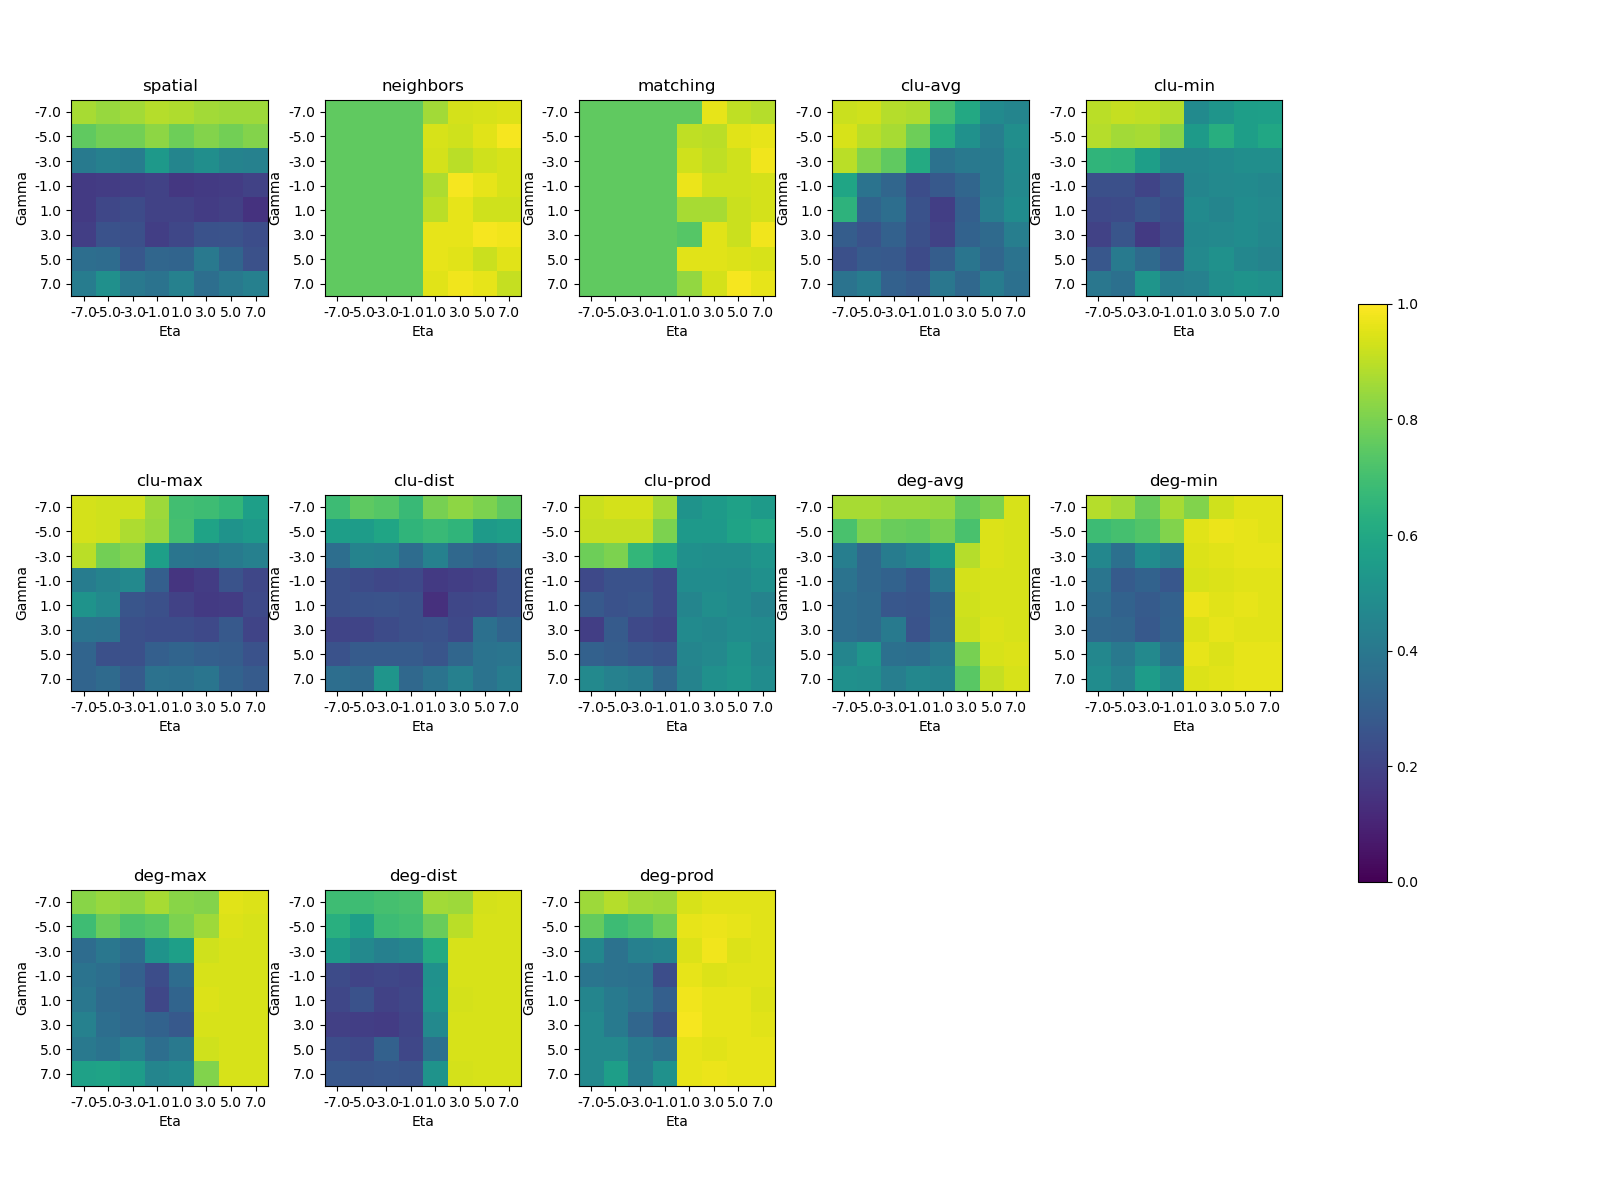
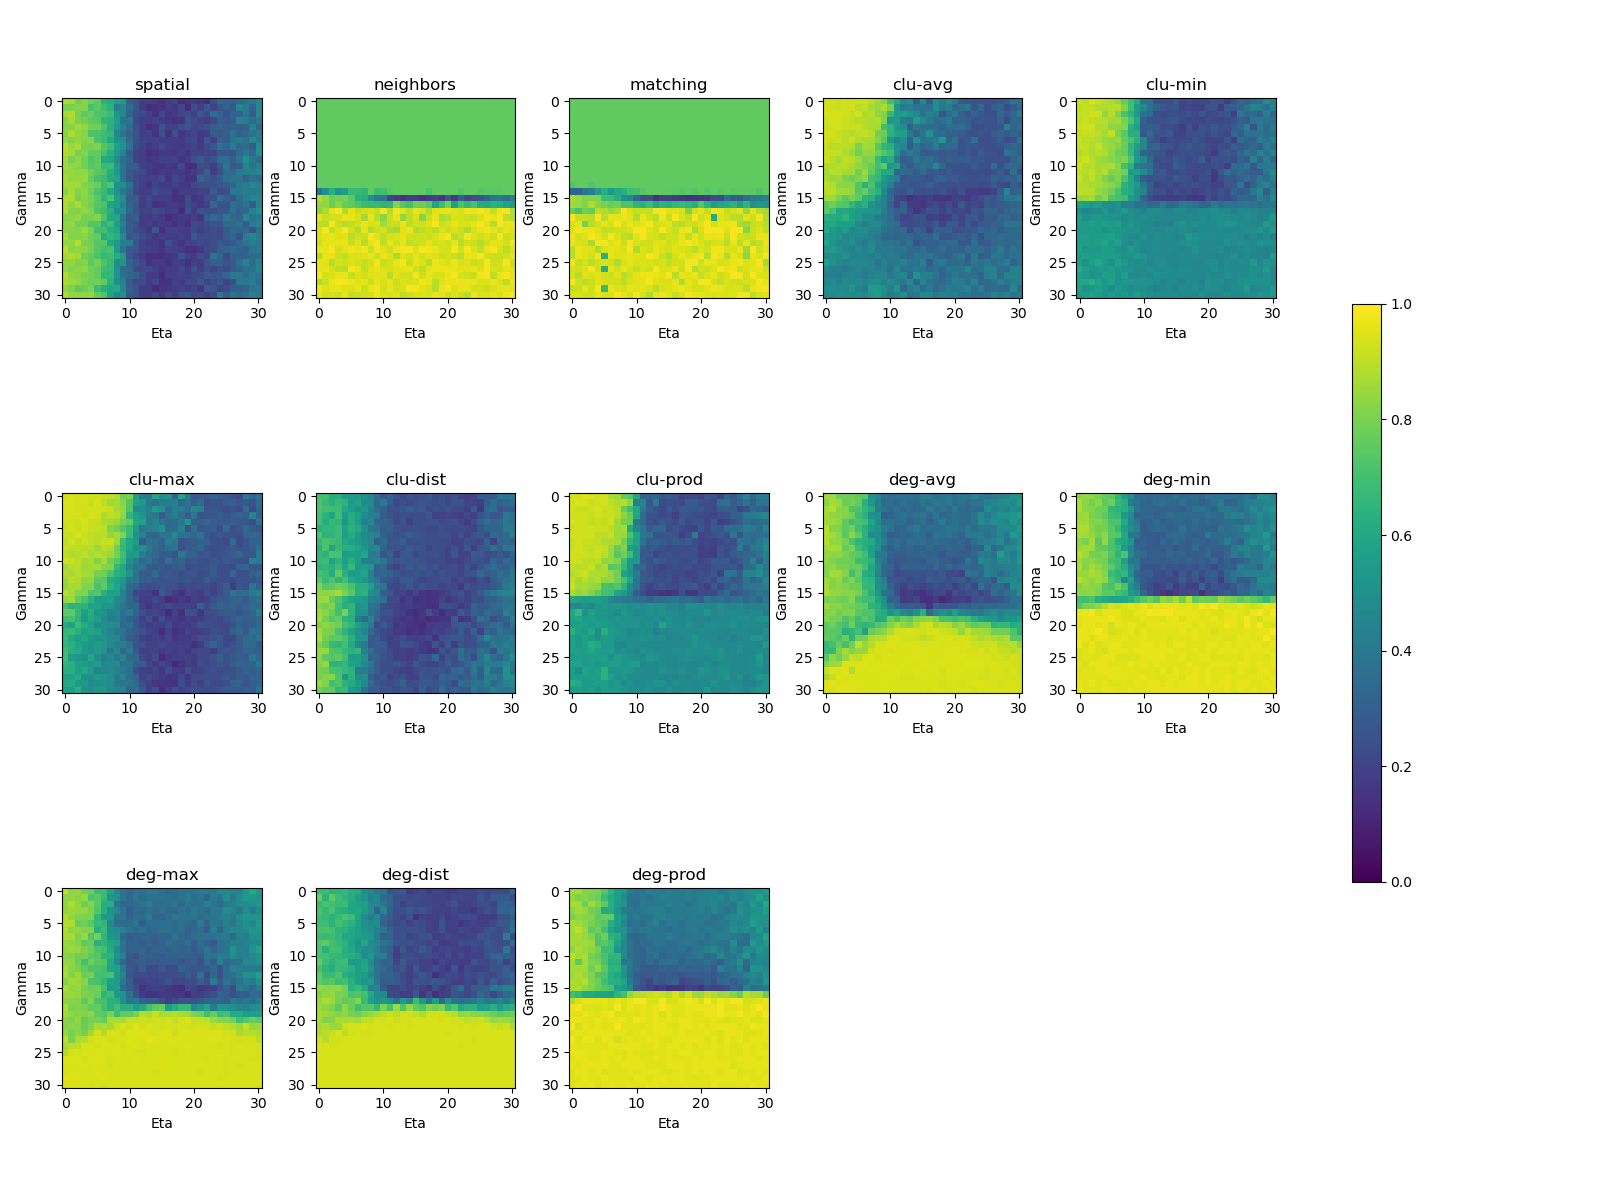
....

diff --git a/main copy.py b/main copy.py
@@ -1,0 +1,132 @@
+# Reference: https://github.com/DanAkarca/generativenetworkmodel/blob/master/Scripts/iii.%20Running%20initial%20generative%20models.m
+
+import sys
+import os
+
+current_path = os.path.dirname(os.path.abspath(__file__))  # noqa
+sys.path.append(os.path.dirname(current_path))  # noqa
+
+import math
+from multiprocess import pool
+import h5py
+import numpy as np
+from tqdm.auto import tqdm
+from utils.seed_network import get_seed_network
+from utils.config import params_from_json
+from utils.graph import Graph
+from utils.gnm_utils import ks_test
+from gnm.gnm import GNM
+
+
+def task(A_Y, i_sample):
+    # number of target connections
+    m = np.count_nonzero(A_Y) // 2
+
+    # number of nodes
+    n = A_Y.shape[0]
+
+    # compute energy stats
+    x = np.zeros((n, 4))
+    x[:, 0] = np.sum(A_Y, axis=0)
+    x[:, 1] = Graph.clustering_coeff(A_Y, n)
+    x[:, 2] = Graph.betweenness_centrality(A_Y.astype(float), n)
+    x[:, 3] = Graph.euclidean_edge_length(A_Y, D)
+
+    # Prepare sample outputs
+    # model x params x N ks statistics
+    K_all_sample = np.zeros((len(GNM.gnm_rules),
+                             params.shape[0],
+                             4))
+
+    # model x params
+    K_max_all_sample = np.zeros((len(GNM.gnm_rules),
+                                 params.shape[0]))
+
+    # Run the generative models for this sample
+    pbar = tqdm(range(len(GNM.gnm_rules)), leave=False)
+    for j_model in pbar:
+        pbar.set_description(f"Processing {GNM.gnm_rules[j_model]}")
+        model = GNM(A_init, D, m, GNM.gnm_rules[j_model], params)
+        model.generate_models()
+        K = np.zeros((params.shape[0], 4))
+
+        # over generated graphs from all parameter combinations
+        for k_param in range(params.shape[0]):
+            # reconstructs the adjacency matrix from the indices
+            A_Y_head = model.reconstruct_A(b_index=k_param)
+
+            # compute energy states
+            y = np.zeros((n, 4))
+            y[:, 0] = np.sum(A_Y_head, axis=0)
+            y[:, 1] = Graph.clustering_coeff(A_Y_head, n)
+            y[:, 2] = Graph.betweenness_centrality(A_Y_head, n)
+            y[:, 3] = Graph.euclidean_edge_length(A_Y_head, D)
+
+            # compute the states
+            K[k_param, ...] = np.array(
+                [ks_test(x[..., l], y[..., l]) for l in range(4)])
+
+            # store the results
+            K_all_sample[j_model, k_param, :] = K[k_param, :]
+            K_max_all_sample[j_model, k_param] = np.max(K[k_param, :])
+
+    return K_all_sample, K_max_all_sample
+
+
+def main(A_init: np.ndarray,
+         D: np.ndarray,
+         A_Ys: np.ndarray,
+         eta_limits=[-7, 7],
+         gamma_limits=[-7, 7],
+         n_runs=64):
+
+    A_Ys = A_Ys[:2, ...]
+
+    # generate the parameter space
+    params = GNM.generate_param_space(n_runs, eta_limits, gamma_limits)
+    n_params = params.shape[0]
+
+    # sample x model x params x N ks statistics
+    K_all = np.zeros((A_Ys.shape[0],
+                      len(GNM.gnm_rules),
+                      params.shape[0],
+                      4))
+
+    # sample x model x params
+    K_max_all = np.zeros((A_Ys.shape[0],
+                          len(GNM.gnm_rules),
+                          params.shape[0]))
+
+    # for each data sample
+    first_arg = range(A_Ys.shape[0])
+    second_arg = [A_Ys[i_sample, ...] for i in range(A_Ys.shape[0])]
+
+    for K_all_sample, K_max_all_sample in pool.starmap(
+            task, zip(first_arg, second_arg)):
+        # store the results
+        K_all[i_sample, ...] = K_all_sample
+        K_max_all[i_sample, ...] = K_max_all_sample
+
+    with h5py.File(config['results_path'] + "gnm_results.h5", 'w') as f:
+        f.create_dataset('K_all', data=K_all)
+        f.create_dataset('K_max_all', data=K_max_all)
+        f.attrs['n_samples'] = A_Ys.shape[0]
+        f.attrs['gnm_rules'] = GNM.gnm_rules
+        f.attrs['n_runs'] = n_runs
+        f.attrs['eta_limits'] = eta_limits
+        f.attrs['gamma_limits'] = gamma_limits
+        f.attrs['eta'] = params[:, 0]
+        f.attrs['gamma'] = params[:, 1]
+
+    return 0
+
+
+# get the initalized adjacency matrix where > 20% of the patient samples
+# connectomes already had connections (target data set)
+config = params_from_json("./config.json")
+A, D, A_Ys = get_seed_network(config,
+                              prop=.2,
+                              get_connections=True,
+                              n_samples=None
+                              )
+main(A, D, A_Ys, n_runs=1000)

diff --git a/main.py b/main.py
@@ -17,13 +17,14 @@ from utils.gnm_utils import ks_test
 from gnm.gnm import GNM
 
 
-def main(A, D, A_Ys,
-         n_samples=2,
+def main(A_init: np.ndarray,
+         D: np.ndarray,
+         A_Ys: np.ndarray,
          eta_limits=[-7, 7],
          gamma_limits=[-7, 7],
          n_runs=64):
-    # subsample for development
-    A_Ys = A_Ys[0:n_samples, ...]
+
+    A_Ys = A_Ys[:2, ...]
 
     # generate the parameter space
     params = GNM.generate_param_space(n_runs, eta_limits, gamma_limits)
@@ -64,10 +65,9 @@ def main(A, D, A_Ys,
         pbar = tqdm(range(len(GNM.gnm_rules)), leave=False)
         for j_model in pbar:
             pbar.set_description(f"Processing {GNM.gnm_rules[j_model]}")
-            model = GNM(A, D, m, GNM.gnm_rules[j_model], params)
+            model = GNM(A_init, D, m, GNM.gnm_rules[j_model], params)
             model.generate_models()
-            nb = model.b.shape[0]
-            K = np.zeros((nb, 4))
+            K = np.zeros((params.shape[0], 4))
 
             # over generated graphs from all parameter combinations
             for k_param in range(params.shape[0]):
@@ -92,7 +92,7 @@ def main(A, D, A_Ys,
     with h5py.File(config['results_path'] + "gnm_results.h5", 'w') as f:
         f.create_dataset('K_all', data=K_all)
         f.create_dataset('K_max_all', data=K_max_all)
-        f.attrs['n_samples'] = n_samples
+        f.attrs['n_samples'] = A_Ys.shape[0]
         f.attrs['gnm_rules'] = GNM.gnm_rules
         f.attrs['n_runs'] = n_runs
         f.attrs['eta_limits'] = eta_limits
@@ -106,6 +106,9 @@ def main(A, D, A_Ys,
 # get the initalized adjacency matrix where > 20% of the patient samples
 # connectomes already had connections (target data set)
 config = params_from_json("./config.json")
-A, D, A_Ys = get_seed_network(config, prop=.2, get_connections=True)
-
-main(A, D, A_Ys, n_samples=2)
+A, D, A_Ys = get_seed_network(config,
+                              prop=.2,
+                              get_connections=True,
+                              n_samples=None
+                              )
+main(A, D, A_Ys, n_runs=1000)

diff --git a/utils/seed_network.py b/utils/seed_network.py
@@ -4,7 +4,10 @@ from scipy.io import loadmat
 from scipy.spatial.distance import pdist, squareform
 
 
-def get_seed_network(config: dict, prop=0.2, get_connections=False) -> tuple:
+def get_seed_network(config: dict,
+                     n_samples: int = None,
+                     prop: float = 0.2,
+                     get_connections=False) -> tuple:
     """
     Loads illustrative seed networks as in 'GNMs for neurodevelopmental struct'
     prop = proportion of connections that were already in place
@@ -15,6 +18,9 @@ def get_seed_network(config: dict, prop=0.2, get_connections=False) -> tuple:
         config['data_path'] + 'example_binarised_connectomes.mat')[
             'example_binarised_connectomes']
 
+    if n_samples is not None:
+        connectomes = connectomes[0:n_samples, ...]
+
     # remove the first dimension to get average
     connections = np.mean(connectomes, axis=0).squeeze()
 
@@ -22,6 +28,10 @@ def get_seed_network(config: dict, prop=0.2, get_connections=False) -> tuple:
     index = np.where(connections == prop)
     A = np.zeros(connections.shape)
     A[index] = 1
+
+    if np.any(connectomes.sum(axis=(1, 2)) < A.sum()):
+        raise BaseException('The initalization adjacency matrix cannot have\
+                            more entries than any of the target matrices')
 
     # laod distances
     coordinates = loadmat(config['data_path'] +

diff --git a/main2.py b/main2.py
@@ -38,17 +38,18 @@ def main():
 
         # reshape for landscape
         landscape = data[:, -1].reshape(
-            (np.unique(data[:, 0]).size, np.unique(data[:, 1]).size))
+            (np.unique(data[:, 0]).size, np.unique(data[:, 1]).size)).T
 
         # plot
         axes[i_model].set_title(model)
         im = axes[i_model].imshow(
             landscape, cmap=plt.colormaps['viridis'], vmin=0, vmax=1)
 
-        axes[i_model].set_xticks(
-            np.arange(len(np.unique(data[:, 0]))), labels=np.unique(data[:, 0]))
-        axes[i_model].set_yticks(
-            np.arange(len(np.unique(data[:, 1]))), labels=np.unique(data[:, 1]))
+        # tick_positions_x = np.linspace(min(data[:, 0]), max(data[:, 0]), 10)
+        # tick_positions_y = np.linspace(min(data[:, 1]), max(data[:, 1]), 10)
+
+        # axes[i_model].set_xticks(tick_positions_x)
+        # axes[i_model].set_yticks(tick_positions_y)
 
         axes[i_model].set_xlabel("Eta")
         axes[i_model].set_ylabel("Gamma")
